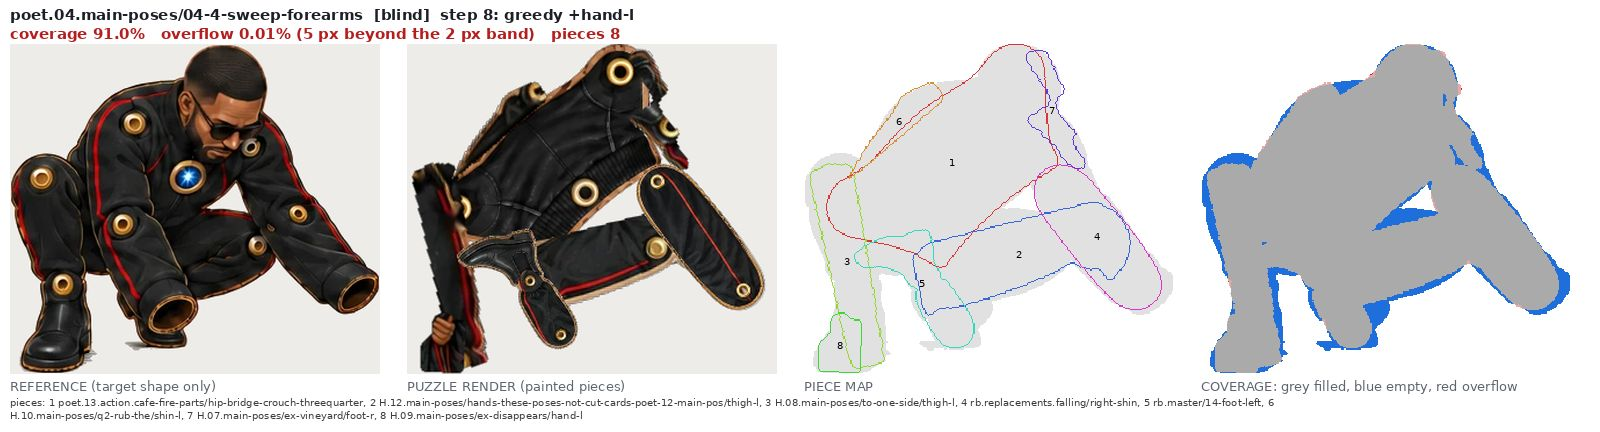
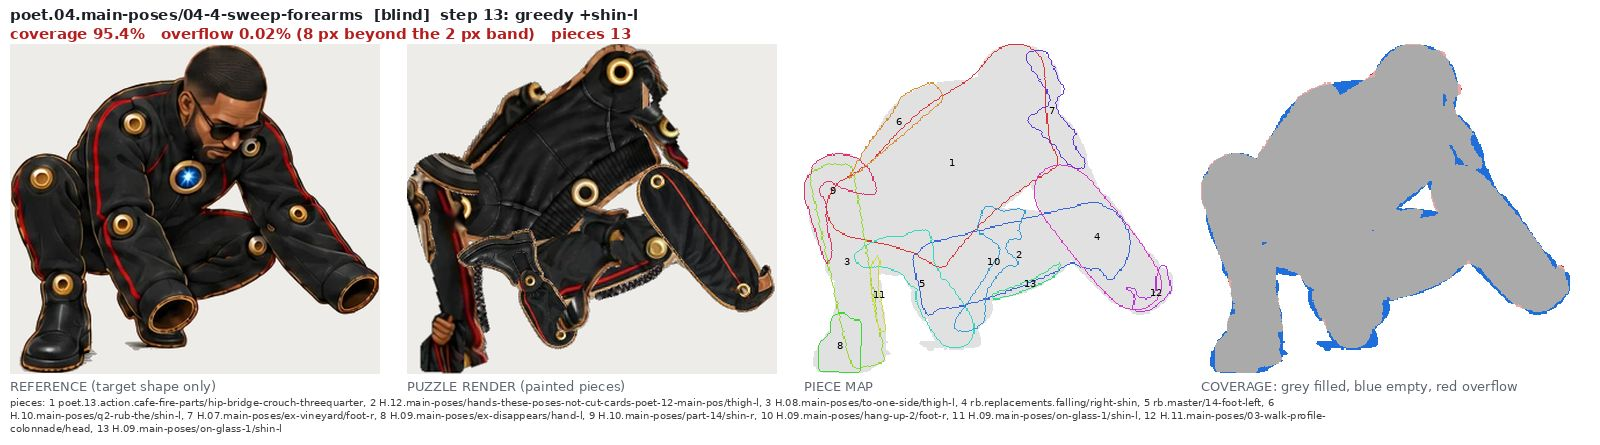
Checkpoint: puzzle/growth work; algorithm lab starting
Claude-Session: https://claude.ai/code/session_012SuwqScw5qvLbAv3TLPPMi

diff --git a/shots/scion2/evolve/puzzle/grow.py b/shots/scion2/evolve/puzzle/grow.py
@@ -41,6 +41,9 @@ PIECE_C, SNAP_C, STUD_C = .006, .004, .003
 SNAP_B, STUD_B = .004, .003          # bonus (share of figure) used while ranking attachments
 OVL = .12
 MAXSTEPS = 45
+ANG = 30                 # degrees between growth variants (the settle refines by 3 and 6)
+KS = (.9, 1.1)           # uniform scales of the growth variants (x target px/cm / card px/cm)
+SUBSET = .35             # share of the pieces tried at one growth step (seeded by the program prefix: deterministic)
 
 
 # ------------------------------------------------------------------ variants with brads
@@ -53,7 +56,7 @@ def build(pieces, t):
             continue
         a = p['px'][..., 3] / 255.
         h, w = a.shape
-        for k in FL.K_STEPS:
+        for k in KS:
             g = t['s'] / p['ppc'] * k * t['r']
             if g * max(h, w) < 3:
                 continue
@@ -64,7 +67,7 @@ def build(pieces, t):
             bs = p['brads'] * [sw_ / w, sh_ / h]
             D = int(math.ceil(math.hypot(sh_, sw_))) + 2
             for mir in (0, 1):
-                for ang in range(0, 360, FL.ANG_STEP):
+                for ang in range(0, 360, ANG):
                     M = FL.rot_mat(ang, mir, 1.0, (sw_ / 2, sh_ / 2), (D / 2, D / 2))
                     m = cv2.warpAffine(small, M, (D, D), flags=cv2.INTER_LINEAR) > .5
                     ys, xs = np.nonzero(m)
@@ -109,6 +112,8 @@ class Grower:
         self.rng = random.Random(seed)
         self.cache = {}
         self.prior = prior or {}                  # {(parent piece id, child piece id): count} (learned grammar)
+        ids = {p['id']: i for i, p in enumerate(self.pieces)}
+        self.prior_piece = {ids[c]: 1 for (_, c) in self.prior if c in ids}   # always tried in prior mode
         yy, xx = np.mgrid[0:self.shape[0], 0:self.shape[1]]
         self.yy, self.xx = yy, xx
 
@@ -177,10 +182,12 @@ class Grower:
                 st.free.append((idx, j))
         return st
 
-    def candidates(self, st):
+    def candidates(self, st, key=()):
         """top attachments: (rank value, vi, loc, free brad, my brad)"""
         if not st.free:
             return []
+        rs = random.Random(hash(key) & 0xffffffff)
+        tried = {pi for pi in range(len(self.pieces)) if rs.random() < SUBSET}
         S = self.score(st)
         Hs, Ws = S.shape
         F = np.array([st.placed[f[0]]['bw'][f[1]] for f in st.free])
@@ -212,6 +219,8 @@ class Grower:
         for vi, v in enumerate(self.V):
             if v['area'] + bonus_max - self.lam <= thr:
                 break                          # variants are sorted by area: nothing later can beat the threshold
+            if v['pi'] not in tried and not self.prior_piece.get(v['pi']):
+                continue
             rad = v['rad']
             if rad not in rcache:
                 rcache[rad] = reach(rad)
@@ -262,8 +271,8 @@ class Grower:
                 thr = heap[0][0]
         return [h[1:] for h in sorted(heap, key=lambda x: -x[1])[:TOPK]]
 
-    def step(self, st, rank):
-        C = self.candidates(st)
+    def step(self, st, rank, key=()):
+        C = self.candidates(st, key)
         C = [c for c in C if c[5] - self.lam > 0]          # the piece must pay for itself in coverage
         if not C:
             st.done = True
@@ -290,7 +299,7 @@ class Grower:
         i = k
         while not st.done and len(st.placed) < MAXSTEPS:
             r = prog[i] if i < len(prog) else 0
-            st, ch = self.step(st, r)
+            st, ch = self.step(st, r, key + tuple(used))
             if ch is None:
                 break
             used.append(r)
